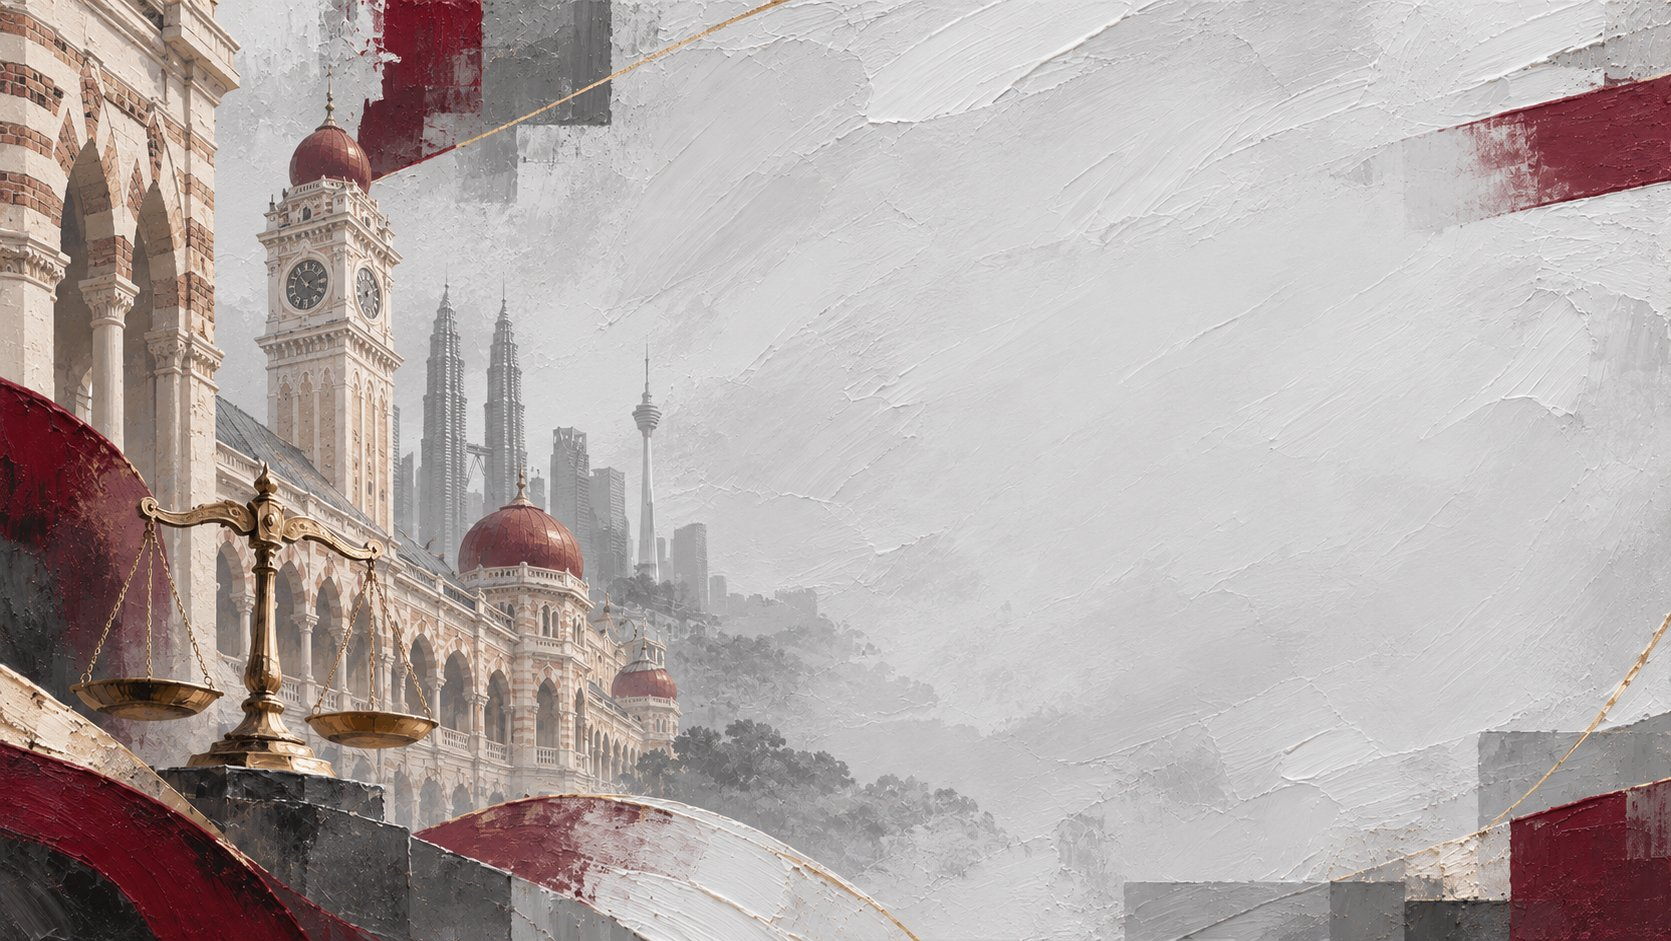
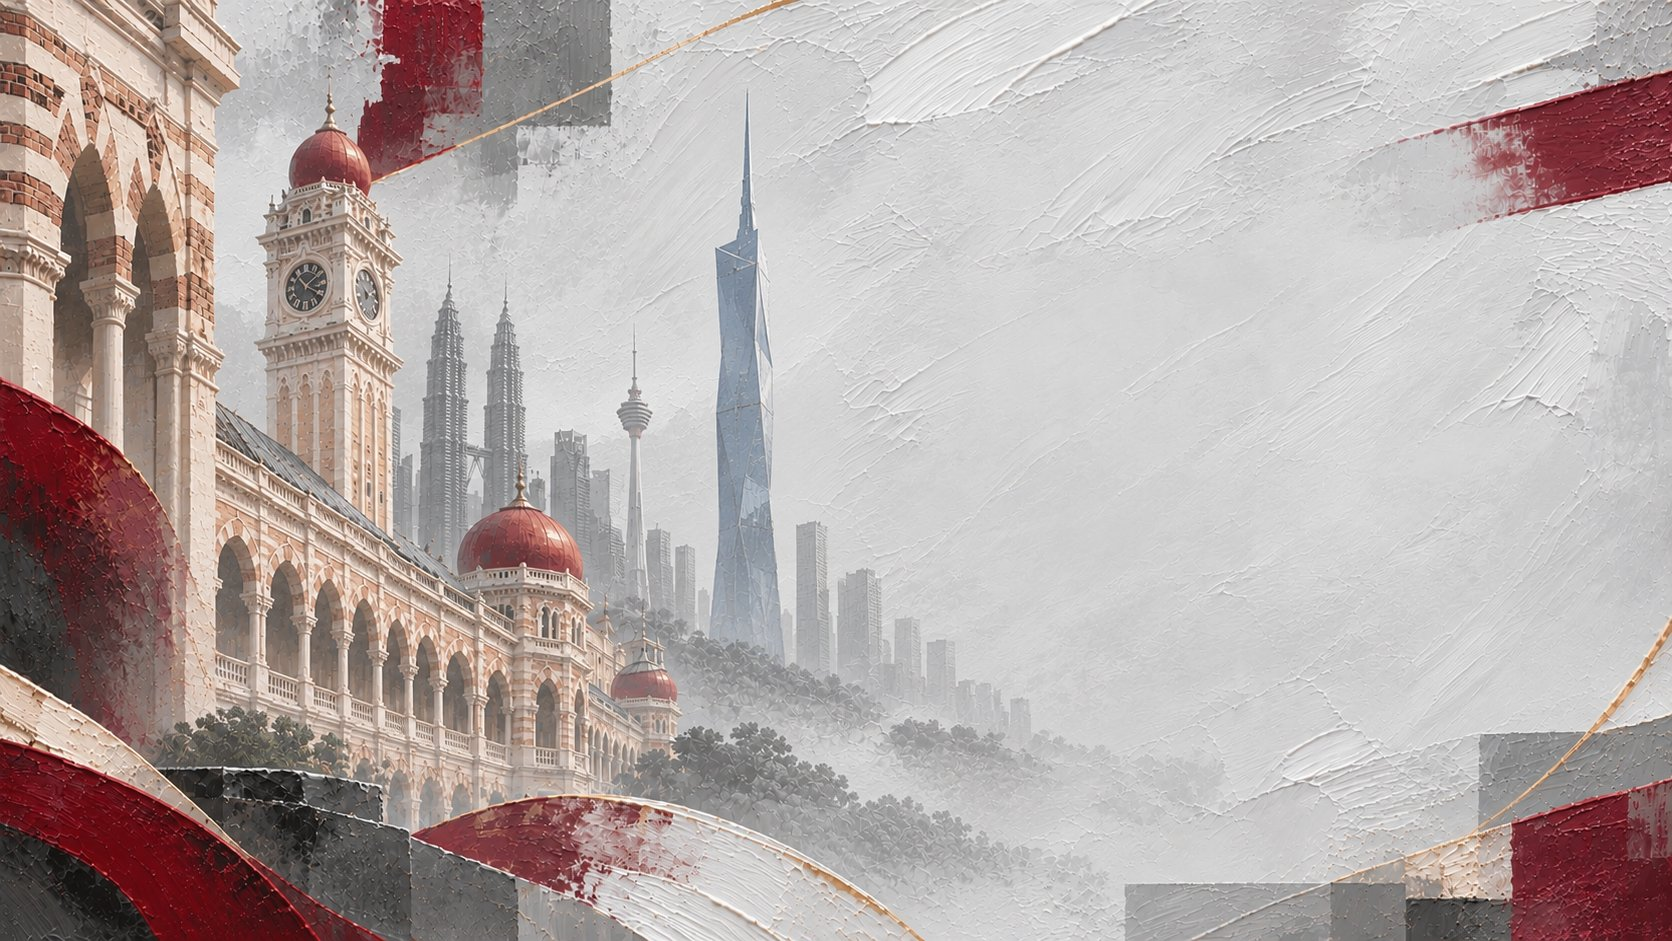
feat(heritage): update heritage image description and adjust hero positioning for immersive effect; add new design asset

diff --git a/new design/css/themes.css b/new design/css/themes.css
@@ -6,7 +6,7 @@
      .skin-4  Songket   images/d4/songket.jpg   woven songket, linen, gold thread
      .skin-6  Peaks     images/d6/peaks.jpg     misty karst mountains
      .skin-7  Steel     images/d7/metal.jpg     brushed corrugated steel (Getty comp: needs a licence)
-     .skin-9  Heritage  images/d9/heritage.jpg  grey plaster, crimson strokes, gold scales; immersive, zooming hero
+     .skin-9  Heritage  images/d9/heritage.jpg  grey KL painting (clock tower, Twin Towers, Merdeka 118), crimson strokes, gold threads; immersive hero
    Design 1 (no class) is the original look and is untouched.
 
    How this file is laid out
@@ -1060,7 +1060,7 @@ html.skin-9.skin-10 {
   --t-wash: url("../images/d10/kl-wash.jpg");
 }
 /* Merdeka 118 rises right behind the hero words in this painting: a softer, stronger light keeps them clear */
-html.skin-9.skin-10 .hero-shade {
+html.skin-9 .hero-shade {   /* Designs 9 and 10: Merdeka 118 rises behind the words */
   background:
     linear-gradient(180deg, rgba(var(--canvas-rgb), 0.5) 0%, rgba(var(--canvas-rgb), 0) 22%),
     radial-gradient(44% 58% at 70% 50%, rgba(var(--canvas-rgb), 0.82) 0%, rgba(var(--canvas-rgb), 0.55) 50%, rgba(var(--canvas-rgb), 0) 100%);

diff --git a/new design/js/hero-immersive.js b/new design/js/hero-immersive.js
@@ -38,7 +38,7 @@
     "4": ["d4/songket.jpg", "0% 50%", "20% 50%"],
     "6": ["d6/peaks.jpg", "50% 30%", "50% 40%"],
     "7": ["d7/metal.jpg", "50% 0%", "50% 25%"],   // pinned to the top: the image watermark sits low
-    "9": ["d9/heritage.jpg", "0% 50%", "18% 66%"],
+    "9": ["d9/heritage.jpg", "0% 50%", "30% 52%"],   // clock tower, Twin Towers, Merdeka 118
     "10": ["d10/kl.jpg", "0% 50%", "30% 52%"]
   };
   var art = ART[window.SKRINE_DESIGN] || ART["1"];
